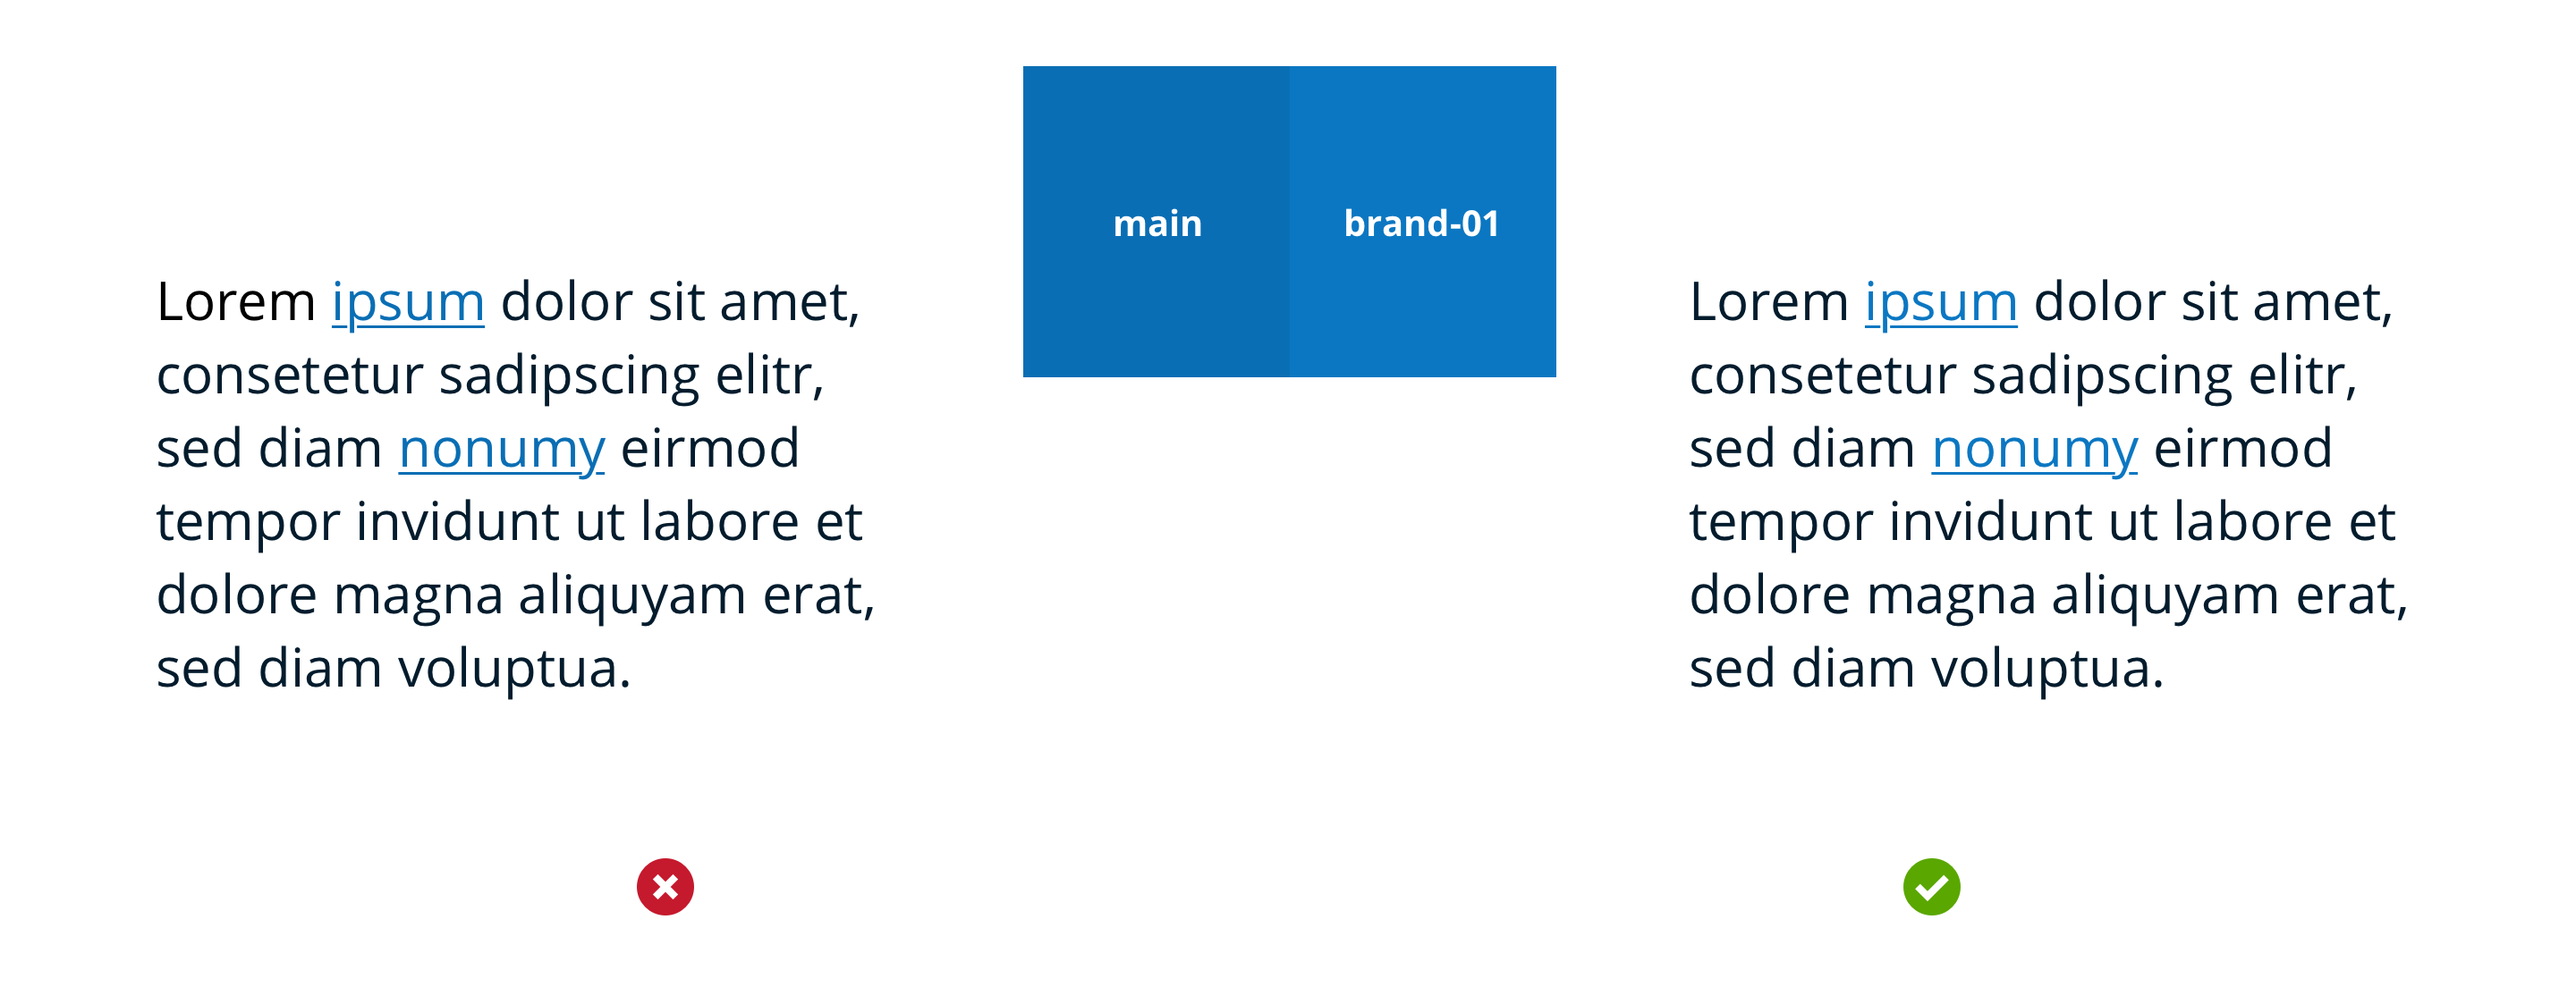
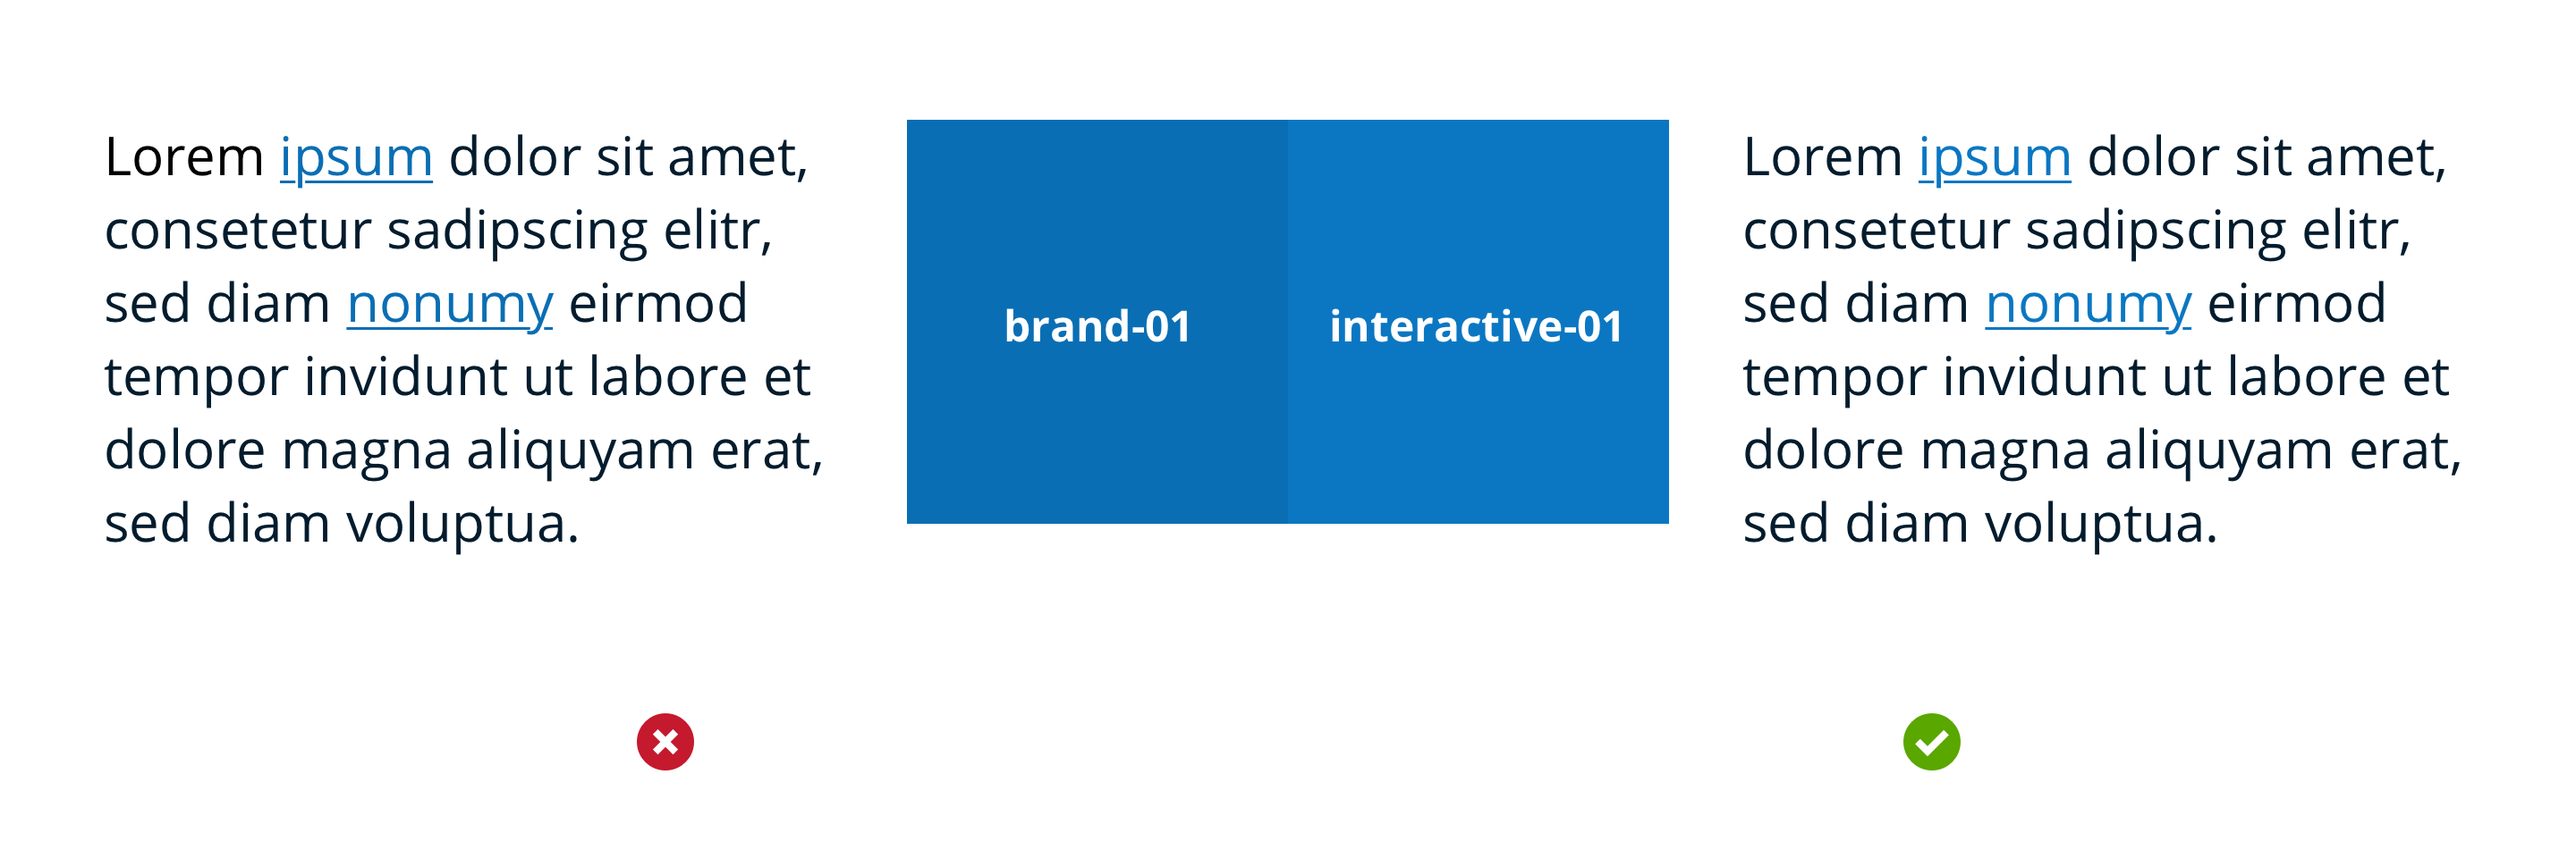
docs(Colours): documentation improved

diff --git a/src/documentation/ColourGuidelines-story.js b/src/documentation/ColourGuidelines-story.js
@@ -43,6 +43,16 @@ storiesOf('Documentation|Guidelines', module)
         Use the <i>70–25–5(60–30–10)</i> rule to create sense of balance and
         allow the eye to move comfortably from one focal point to the next.
       </p>
+      <img
+        alt="Brand colour"
+        style={{
+          width: '100%',
+          height: 'auto',
+          marginTop: '1em',
+          marginLeft: '0em',
+        }}
+        src={`${process.env.STORYBOOK_INTERNAL_ASSETS}internal/colors.png`}
+      />
       <h2>Interactive colours</h2>
       <Color color="interactive-01" />
       <h4 className="wfp--story__sub-heading">
@@ -59,25 +69,25 @@ storiesOf('Documentation|Guidelines', module)
         <ListItem kind="checkmark">buttons</ListItem>
         <ListItem kind="checkmark">other interactive elements</ListItem>
       </List>
-      {/*<img
+      <img
         alt="Brand colour"
         style={{
           width: '100%',
           height: 'auto',
-          marginTop: '3em',
+          marginTop: '1em',
           marginLeft: '0em',
         }}
         src={`${process.env.STORYBOOK_INTERNAL_ASSETS}internal/brand-color.png`}
-      />*/}
+      />
       <h5>Do not use for:</h5>
       <List kind="bullet">
-        <ListItem>
+        <ListItem kind="cross">
           {' '}
           MainNavigation, since it is a branding element and not interactive as
           a whole
         </ListItem>
-        <ListItem>other branding elements</ListItem>
-        <ListItem>non - interactive elements</ListItem>
+        <ListItem kind="cross">other branding elements</ListItem>
+        <ListItem kind="cross">non - interactive elements</ListItem>
       </List>
       <h2>Brand colour</h2>
       <p>
@@ -103,8 +113,10 @@ storiesOf('Documentation|Guidelines', module)
       </List>
       <h4>Do not use for:</h4>
       <List kind="bullet">
-        <ListItem>interactive elements like buttons or links</ListItem>
-        <ListItem>Primary and secondary colours</ListItem>
+        <ListItem kind="cross">
+          interactive elements like buttons or links
+        </ListItem>
+        <ListItem kind="cross">Primary and secondary colours</ListItem>
       </List>
       <Color color="brand-02" />
       <h4 className="wfp--story__sub-heading">
@@ -121,16 +133,14 @@ storiesOf('Documentation|Guidelines', module)
         elements within a component, such different variants used on a floating
         action button container as well as the icon within it.
       </p>
-      <h3>sdg - 01 - 17</h3>{' '}
-      <h4 className="wfp--story__sub-heading">SDG colors add here</h4>
-      <h4>brand - 03</h4>
+      <Color color="brand-03" />
       <h4 className="wfp--story__sub-heading">Accent secondary colour</h4>
       <img
         alt="Brand colour"
         style={{
           width: '100%',
           height: 'auto',
-          marginTop: '3em',
+          marginTop: '1em',
           marginLeft: '0em',
         }}
         src={`${process.env.STORYBOOK_INTERNAL_ASSETS}internal/secondary-color.png`}
@@ -157,21 +167,27 @@ storiesOf('Documentation|Guidelines', module)
         <ListItem kind="checkmark">
           yellow makes a good button colour in placed in isolation
         </ListItem>
-        <ListItem>
+        <ListItem kind="checkmark">
           external websites where colour creates interest and meaning and
           improves the conversation rate
         </ListItem>
       </List>
       <h4>Do not use it:</h4>
       <List kind="bullet">
-        <ListItem>for regular actions</ListItem>
-        <ListItem>multiple actions / times on the same webpage</ListItem>
-        <ListItem>
+        <ListItem kind="cross">for regular actions</ListItem>
+        <ListItem kind="cross">
+          multiple actions / times on the same webpage
+        </ListItem>
+        <ListItem kind="cross">
           limit the use of yellow to the elements you want to emphasize related
           to the audience priority
         </ListItem>
-        <ListItem>limit usage for texts and navigation elements</ListItem>
+        <ListItem kind="cross">
+          limit usage for texts and navigation elements
+        </ListItem>
       </List>
+      <h3>sdg - 01 - 17</h3>{' '}
+      <h4 className="wfp--story__sub-heading">SDG colors add here</h4>
       <h3>Neutral colours</h3>
       <p>
         Neutral colours are used in the interface for non-interactive elements,
@@ -188,36 +204,66 @@ storiesOf('Documentation|Guidelines', module)
         src={`${process.env.STORYBOOK_INTERNAL_ASSETS}internal/background-contrast.png`}
       />
       <Color color="ui-01" />
-      <p>Primary container background; Secondary page background</p>
+      <h4 className="wfp--story__sub-heading">
+        Primary container background; Secondary page background
+      </h4>
       <p>
         This colour is used as the page background if there are no Modules on
         top of it.
       </p>
       <Color color="ui-02" />
-      <p>Primary page background; Secondary container background</p>
+      <h4 className="wfp--story__sub-heading">
+        Primary page background; Secondary container background
+      </h4>
       <p>
         Use this colour as page background if there are modules on top of it to
         increase the contrast between the modules.
       </p>
       <Color color="ui-03" />
-      <p>Subtle border, Tertiary background colour</p>
+      <h4 className="wfp--story__sub-heading">
+        Subtle border, Tertiary background colour
+      </h4>
       <Color color="ui-04" />
-      <p>3: 1 AA element contrast; Medium contrast border</p>
+      <h4 className="wfp--story__sub-heading">
+        3: 1 AA element contrast; Medium contrast border
+      </h4>
       <Color color="ui-05" />
-      <p>4.5: 1 AA element contrast; High contrast border; Emphasis elements</p>
+      <h4 className="wfp--story__sub-heading">
+        4.5: 1 AA element contrast; High contrast border; Emphasis elements
+      </h4>
       <Color color="text-01" />
-      <h4>text - 01</h4>
-      <p>Primary text; Body copy; Headers; Hover text colour for text - 02</p>
+      <h4 className="wfp--story__sub-heading">
+        Primary text; Body copy; Headers; Hover text colour for text - 02
+      </h4>
       <Color color="text-02" />
-      <p>Secondary text; Input labels; Help text</p>
+      <h4 className="wfp--story__sub-heading">
+        Secondary text; Input labels; Help text
+      </h4>
       <Color color="text-03" />
-      <p>Placeholder text</p> <p>Semantic colours</p>
+      <h4 className="wfp--story__sub-heading">
+        Placeholder text; Semantic colours
+      </h4>
       <h2>Success, error, warning and information</h2>
       <Color color="support-01" />
-      <p>Error</p> <p>Indicates an error</p>
+      <h4 className="wfp--story__sub-heading">Error</h4>
+      <p>
+        Use the error color to indicate an error or to focus the attention on
+        something which is crucial to see. Paired with a cross icon, red
+        delivers the message that something went wrong.
+      </p>
       <Color color="support-02" />
-      <p>Success</p> <p>Indicates a success</p>
+      <h4 className="wfp--story__sub-heading">Success</h4>
+      <p>
+        Use green to indicate success state. Paired with a checkmark icon the
+        user knows that the operation was successfully completed.
+      </p>
       <Color color="support-03" />
-      <p>Warning</p> <p>Indicates a warning</p>
+      <h4 className="wfp--story__sub-heading">Warning</h4>
+      <p>
+        Use yellow to indicate a transient warning which is less important than
+        an error message. Yellow typically consists of items which require the
+        user’s immediate attention, or indicate a waiting period. Although this
+        overlaps with the use of red, yellow is more transient in nature.
+      </p>
     </Page>
   ));

diff --git a/src/components/Story/_story.scss b/src/components/Story/_story.scss
@@ -39,6 +39,8 @@
 
     h2 {
       //margin: $spacing-lg 0;
+      margin-top: $spacing-2xl;
+
       &.before--img {
         margin-bottom: 0;
       }
@@ -49,11 +51,11 @@
     }
 
     h3 {
-      margin-top: $spacing-xs;
+      margin-top: $spacing-2xl;
     }
 
     h4 {
-      margin-top: $spacing-xs;
+      margin-top: $spacing-md;
       @include typescale('epsilon');
     }
 
@@ -91,11 +93,11 @@
     }
 
     p + h2 {
-      margin-top: $spacing-lg;
+      margin-top: $spacing-2xl;
     }
 
     p + h3 {
-      margin-top: $spacing-lg;
+      margin-top: $spacing-2xl;
     }
 
     h1 + h2 {
@@ -137,13 +139,13 @@
       margin-top: $spacing-xs;
     }
 
-    .wfp--list + h1,
-    .wfp--list + h2,
-    .wfp--list + h3,
-    .wfp--list + h4,
-    .wfp--list + h5 {
-      margin-top: $spacing-md;
-    }
+    /*.wfp--list+h1,
+    .wfp--list+h2,
+    .wfp--list+h3,
+    .wfp--list+h4,
+    .wfp--list+h5 {
+      margin-top: $spacing-lg;
+    }*/
 
     h1 + iframe,
     h2 + iframe,

diff --git a/src/components/List/_list.scss b/src/components/List/_list.scss
@@ -17,8 +17,27 @@
 
     //@include typescale('epsilon');
     //@include font-smoothing;
-    .#{$prefix}--list-item--checkmark {
-      list-style-type: square;
+    .#{$prefix}--list-item--checkmark,
+    .#{$prefix}--list-item--cross {
+      list-style-type: none;
+      position: relative;
+      //padding-left: 0;
+      //margin-left: -1.6em;
+
+      &:before {
+        color: $support-02;
+        position: absolute;
+        font-size: 1em;
+        left: -1.4em;
+        content: '✔';
+      }
+    }
+
+    .#{$prefix}--list-item--cross {
+      &:before {
+        color: $support-01;
+        content: '✘';
+      }
     }
   }
 

diff --git a/src/globals/scss/_theme-tokens.scss b/src/globals/scss/_theme-tokens.scss
@@ -11,6 +11,7 @@
   $interactive-01: $color__main-51 !default !global; // Main Link and Button Color
   $brand-01: $color__main !default !global; // Main Link and Button Color
   $brand-02: $color__main-60 !default !global; // Main WFP Color //$color__blue-40
+  $brand-03: $color__yellow !default !global;
   $interactive-03: $color__yellow !default !global; // Darker WFP Blue // $color__teal-20
   $inverse-01: $color__white !default !global;
   $inverse-02: $color__white !default !global;

diff --git a/src/components/List/List.js b/src/components/List/List.js
@@ -5,6 +5,7 @@ import classnames from 'classnames';
 const ListItem = ({ children, className, title, kind, ...other }) => {
   const classNames = classnames('wfp--list__element', className, {
     'wfp--list-item--checkmark': kind === 'checkmark',
+    'wfp--list-item--cross': kind === 'cross',
   });
   return (
     <li className={classNames} {...other}>

diff --git a/.storybook/_container.scss b/.storybook/_container.scss
@@ -146,6 +146,10 @@ table {
   background: $brand-02;
 }
 
+.color__brand-03 {
+  background: $brand-03;
+}
+
 .color__interactive-03 {
   background: $interactive-03;
 }
